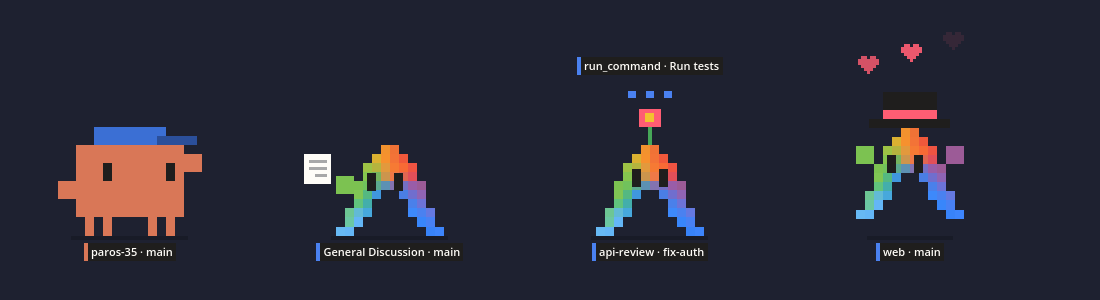
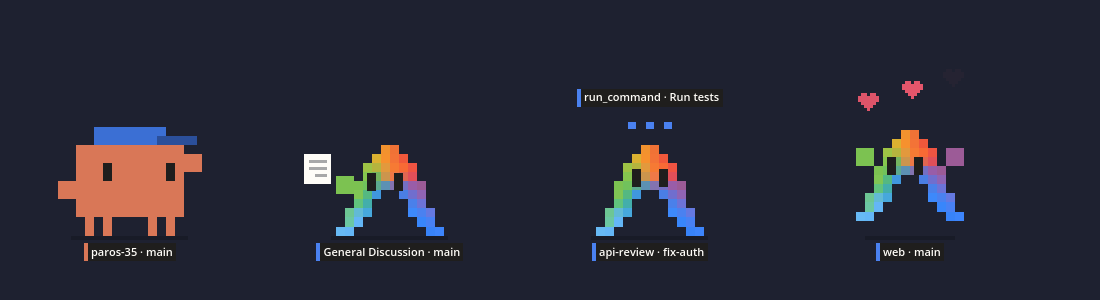
fix: the agy pet wears no hat, nothing sits well on the point of its "A"

diff --git a/docs/fr/agy.md b/docs/fr/agy.md
@@ -29,7 +29,7 @@ Linux seulement. Rien à installer : Paros lit les fichiers qu'écrit agy. Un ho
 
 Ses bras n'apparaissent que lorsqu'ils se lèvent : quand il saute de joie, fait signe, lance ou lit. Au repos, le « A » garde la forme de la mascotte.
 
-La branche git, les dossiers portés, le casque de chantier et les autres réactions au dépôt fonctionnent comme pour une session Claude Code : voir [Claude Code](claude-code.md).
+Il ne porte aucun accessoire : rien ne tient bien sur la pointe du « A ». Pendant une fusion ou un rebase, le panneau d'avertissement se dresse à côté de lui, sans le casque de chantier. La branche git, les dossiers portés et les autres réactions au dépôt fonctionnent comme pour une session Claude Code : voir [Claude Code](claude-code.md).
 
 ## Diaulos
 

diff --git a/docs/en/agy.md b/docs/en/agy.md
@@ -29,7 +29,7 @@ Linux only. Nothing to install: Paros reads the files agy writes. An optional ho
 
 Its arms show only while they rise: when it cheers, waves, throws or reads. At rest the "A" keeps the shape of the mascot.
 
-The git branch, the folders carried, the hard hat and the other reactions to the repository work as for a Claude Code session: see [Claude Code](claude-code.md).
+It wears no accessory: nothing sits well on the point of the "A". During a merge or a rebase, the warning sign stands beside it, without the hard hat. The git branch, the folders carried and the other reactions to the repository work as for a Claude Code session: see [Claude Code](claude-code.md).
 
 ## Diaulos
 
